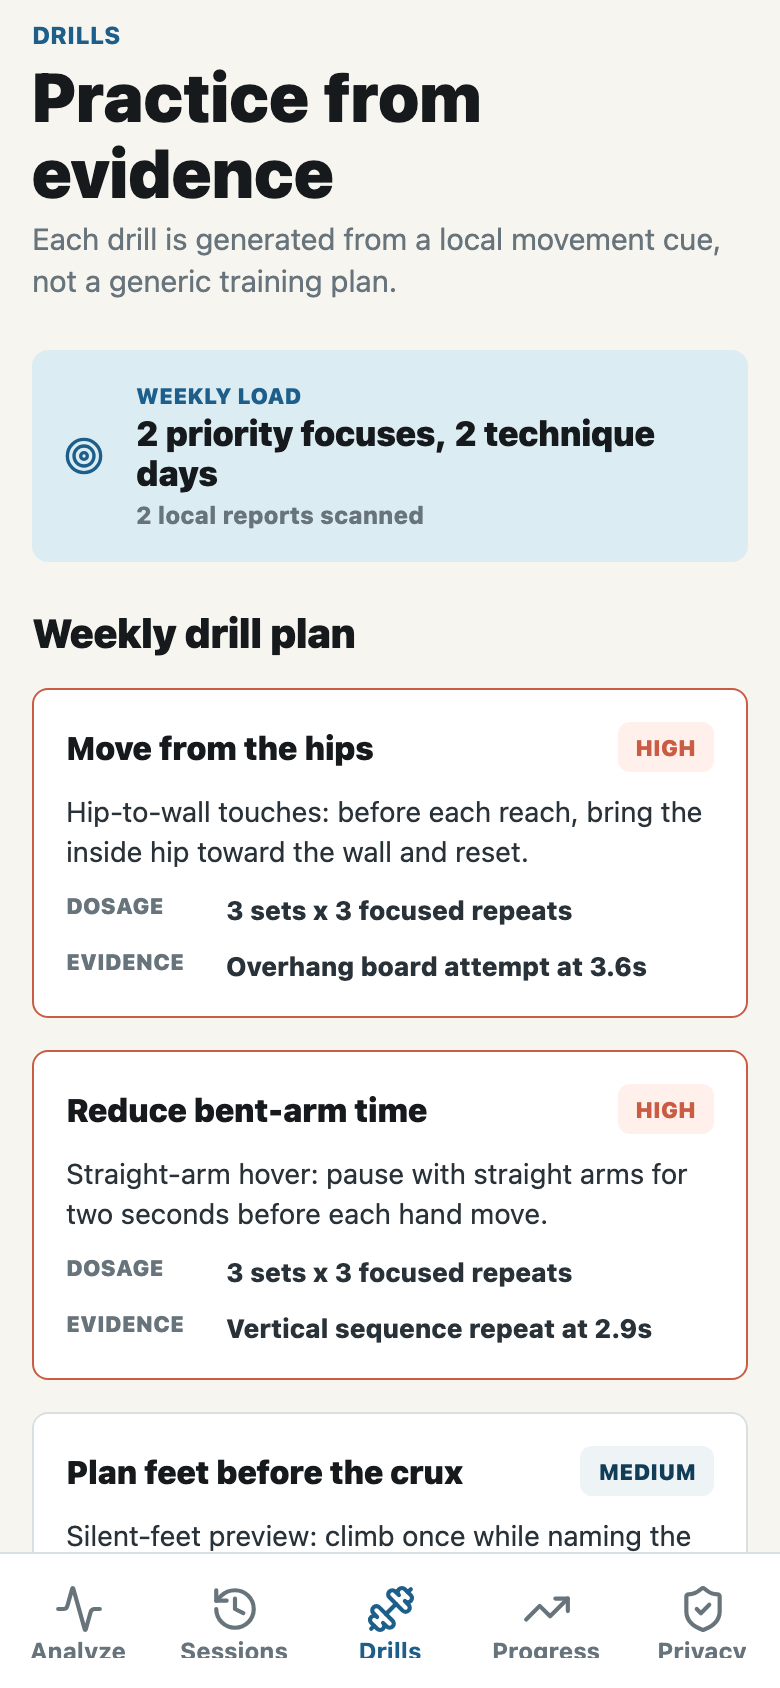
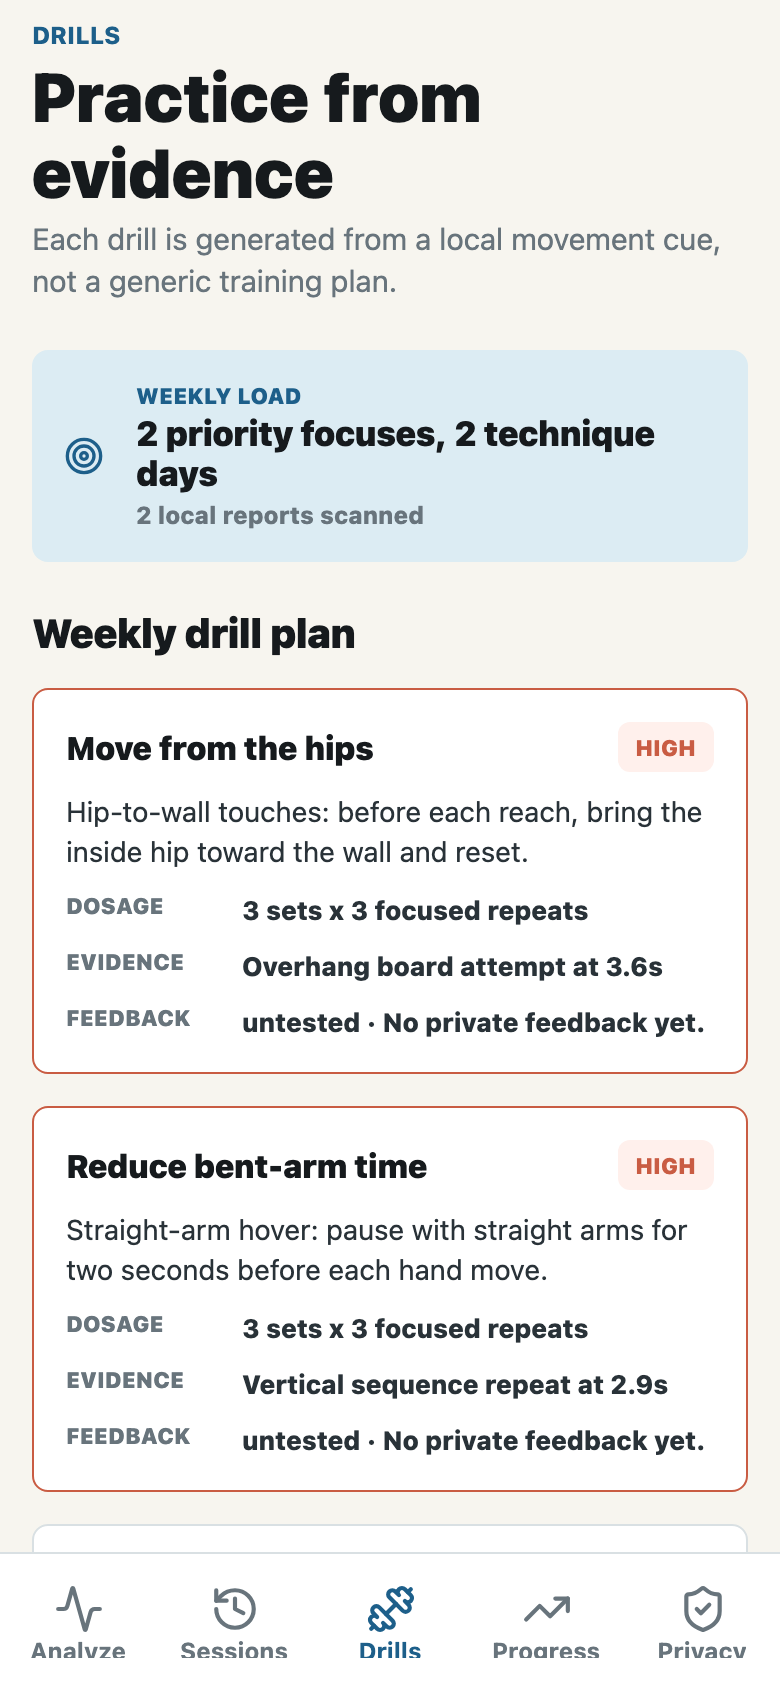
feat: adapt drills from cue feedback

diff --git a/src/movement/drillPlanner.ts b/src/movement/drillPlanner.ts
@@ -1,6 +1,8 @@
 import type { LocalAnalysisReport, MovementCue } from './contracts';
+import type { CueFeedback, ReportAnnotation } from './reportAnnotationRepository';
 
 export type DrillPlanPriority = 'high' | 'medium' | 'maintenance';
+export type DrillFeedbackStatus = 'reinforce' | 'variant' | 'untested';
 
 export type DrillPlanItem = {
   id: string;
@@ -10,6 +12,8 @@ export type DrillPlanItem = {
   drill: string;
   dosage: string;
   evidence: string;
+  feedbackEvidence: string;
+  feedbackStatus: DrillFeedbackStatus;
   priority: DrillPlanPriority;
   sourceReportId: string;
   sourceSessionTitle: string;
@@ -45,17 +49,69 @@ function sortReports(reports: LocalAnalysisReport[]) {
 
 function shouldReplace(existing: DrillPlanItem, candidate: DrillPlanItem) {
   const rankDelta = priorityRank[candidate.priority] - priorityRank[existing.priority];
-  return rankDelta > 0;
+  if (rankDelta !== 0) return rankDelta > 0;
+  return feedbackRank(candidate.feedbackStatus) > feedbackRank(existing.feedbackStatus);
 }
 
-function buildItem(report: LocalAnalysisReport, cue: MovementCue): DrillPlanItem {
+function feedbackRank(status: DrillFeedbackStatus) {
+  if (status === 'reinforce') return 3;
+  if (status === 'untested') return 2;
+  return 1;
+}
+
+function summarizeCueFeedback(feedback: CueFeedback[]): Pick<DrillPlanItem, 'feedbackEvidence' | 'feedbackStatus'> {
+  if (feedback.length === 0) {
+    return {
+      feedbackEvidence: 'No private feedback yet.',
+      feedbackStatus: 'untested',
+    };
+  }
+
+  const usefulCount = feedback.filter((item) => item.rating === 'useful').length;
+  const unclearCount = feedback.filter((item) => item.rating === 'unclear').length;
+  const notUsefulCount = feedback.filter((item) => item.rating === 'not-useful').length;
+  const reviewCount = unclearCount + notUsefulCount;
+  const total = feedback.length;
+
+  if (usefulCount > reviewCount) {
+    return {
+      feedbackEvidence: `${usefulCount}/${total} marked useful; repeat this cue before changing the drill.`,
+      feedbackStatus: 'reinforce',
+    };
+  }
+
+  return {
+    feedbackEvidence: `${reviewCount}/${total} need review; try a different constraint or ask a coach.`,
+    feedbackStatus: 'variant',
+  };
+}
+
+function buildFeedbackLookup(reports: LocalAnalysisReport[], annotations: ReportAnnotation[]) {
+  const reportIds = new Set(reports.map((report) => report.id));
+  const byCue = new Map<string, CueFeedback[]>();
+
+  for (const annotation of annotations) {
+    if (!reportIds.has(annotation.reportId)) continue;
+
+    for (const feedback of annotation.cueFeedback) {
+      byCue.set(feedback.cueId, [...(byCue.get(feedback.cueId) ?? []), feedback]);
+    }
+  }
+
+  return byCue;
+}
+
+function buildItem(report: LocalAnalysisReport, cue: MovementCue, feedback: CueFeedback[]): DrillPlanItem {
   const priority = cuePriority(cue);
+  const feedbackSummary = summarizeCueFeedback(feedback);
 
   return {
     cueId: cue.id,
     dosage: dosageForPriority(priority),
     drill: cue.drill,
     evidence: `${report.session.title} at ${(cue.timestampMs / 1000).toFixed(1)}s`,
+    feedbackEvidence: feedbackSummary.feedbackEvidence,
+    feedbackStatus: feedbackSummary.feedbackStatus,
     focus: cue.title,
     id: `${cue.id}-${report.id}`,
     priority,
@@ -65,13 +121,14 @@ function buildItem(report: LocalAnalysisReport, cue: MovementCue): DrillPlanItem
   };
 }
 
-export function buildDrillPlan(reports: LocalAnalysisReport[]): DrillPlan {
+export function buildDrillPlan(reports: LocalAnalysisReport[], annotations: ReportAnnotation[] = []): DrillPlan {
   const orderedReports = sortReports(reports);
+  const feedbackByCue = buildFeedbackLookup(orderedReports, annotations);
   const byCue = new Map<string, DrillPlanItem>();
 
   for (const report of orderedReports) {
     for (const cue of report.cues) {
-      const item = buildItem(report, cue);
+      const item = buildItem(report, cue, feedbackByCue.get(cue.id) ?? []);
       const existing = byCue.get(cue.id);
       if (!existing || shouldReplace(existing, item)) {
         byCue.set(cue.id, item);
@@ -92,10 +149,13 @@ export function buildDrillPlan(reports: LocalAnalysisReport[]): DrillPlan {
   }
 
   const highPriorityCount = items.filter((item) => item.priority === 'high').length;
-  const weeklyLoad =
+  const variantCount = items.filter((item) => item.feedbackStatus === 'variant').length;
+  const baseLoad =
     highPriorityCount > 0
       ? `${highPriorityCount} priority focus${highPriorityCount > 1 ? 'es' : ''}, 2 technique days`
       : 'Technique maintenance, 1 to 2 easy days';
+  const weeklyLoad =
+    variantCount > 0 ? `${baseLoad} · ${variantCount} cue${variantCount > 1 ? 's' : ''} need variants` : baseLoad;
 
   return {
     items,

diff --git a/tests/drillPlanner.test.ts b/tests/drillPlanner.test.ts
@@ -3,6 +3,7 @@ import { describe, expect, it } from 'vitest';
 import type { MovementCue } from '../src/movement/contracts';
 import { buildDrillPlan } from '../src/movement/drillPlanner';
 import { localMovementAnalyzer } from '../src/movement/localAnalyzer';
+import { createReportAnnotation, updateCueFeedback } from '../src/movement/reportAnnotationRepository';
 import { sampleAttempts } from '../src/movement/sampleSession';
 
 async function buildReports() {
@@ -55,6 +56,66 @@ describe('drill planner', () => {
     expect(plan.items).toHaveLength(1);
     expect(plan.items[0].priority).toBe('high');
     expect(plan.items[0].title).toBe('Higher priority duplicate');
+  });
+
+  it('adapts drill evidence from private useful cue feedback', async () => {
+    const reports = await buildReports();
+    const cueId = reports[0].cues[0].id;
+    const annotations = [
+      updateCueFeedback(createReportAnnotation(reports[0].id), {
+        cueId,
+        rating: 'useful',
+        updatedAt: '2026-06-19T11:00:00.000Z',
+      }),
+    ];
+
+    const plan = buildDrillPlan(reports, annotations);
+    const item = plan.items.find((drill) => drill.cueId === cueId);
+
+    expect(item?.feedbackStatus).toBe('reinforce');
+    expect(item?.feedbackEvidence).toContain('marked useful');
+  });
+
+  it('flags drill variants when private cue feedback needs review', async () => {
+    const reports = await buildReports();
+    const cueId = reports[0].cues[0].id;
+    const annotations = [
+      updateCueFeedback(createReportAnnotation(reports[0].id), {
+        cueId,
+        rating: 'unclear',
+        updatedAt: '2026-06-19T11:00:00.000Z',
+      }),
+      updateCueFeedback(createReportAnnotation(reports[1].id), {
+        cueId,
+        rating: 'not-useful',
+        updatedAt: '2026-06-19T12:00:00.000Z',
+      }),
+    ];
+
+    const plan = buildDrillPlan(reports, annotations);
+    const item = plan.items.find((drill) => drill.cueId === cueId);
+
+    expect(item?.feedbackStatus).toBe('variant');
+    expect(item?.feedbackEvidence).toContain('need review');
+    expect(plan.weeklyLoad).toContain('need variants');
+  });
+
+  it('ignores orphan feedback when adapting drill plans', async () => {
+    const reports = await buildReports();
+    const cueId = reports[0].cues[0].id;
+    const annotations = [
+      updateCueFeedback(createReportAnnotation('deleted-report'), {
+        cueId,
+        rating: 'not-useful',
+        updatedAt: '2026-06-19T11:00:00.000Z',
+      }),
+    ];
+
+    const plan = buildDrillPlan(reports, annotations);
+    const item = plan.items.find((drill) => drill.cueId === cueId);
+
+    expect(item?.feedbackStatus).toBe('untested');
+    expect(item?.feedbackEvidence).toContain('No private feedback');
   });
 
   it('returns an empty plan when no report has coach cues', async () => {

diff --git a/src/features/drills/DrillsScreen.tsx b/src/features/drills/DrillsScreen.tsx
@@ -10,6 +10,7 @@ import { Section } from '@/components/Section';
 import { appConfig } from '@/core/config';
 import { theme } from '@/core/theme';
 import { buildDrillPlan, type DrillPlan } from '@/movement/drillPlanner';
+import { reportAnnotationRepository } from '@/movement/reportAnnotationRepository';
 import { analyzeDemoAttempt, listDemoAttempts, listReports } from '@/movement/repository';
 
 function emptyPlan(): DrillPlan {
@@ -31,7 +32,8 @@ export function DrillsScreen() {
       reports = await listReports();
     }
 
-    setPlan(buildDrillPlan(reports));
+    const nextAnnotations = await reportAnnotationRepository.listAnnotations();
+    setPlan(buildDrillPlan(reports, nextAnnotations));
   }
 
   useFocusEffect(
@@ -76,6 +78,12 @@ export function DrillsScreen() {
                 <Text style={styles.detailLabel}>Evidence</Text>
                 <Text style={styles.detailValue}>{item.evidence}</Text>
               </View>
+              <View style={styles.detailRow}>
+                <Text style={styles.detailLabel}>Feedback</Text>
+                <Text style={styles.detailValue}>
+                  {item.feedbackStatus} · {item.feedbackEvidence}
+                </Text>
+              </View>
             </View>
           ))
         ) : (
@@ -90,7 +98,7 @@ export function DrillsScreen() {
         <View style={styles.preview}>
           <Text style={styles.previewTitle}>Next unlock</Text>
           <Text style={styles.previewText}>
-            Save plan variants by grade, wall angle, and athlete goal while keeping report data local by default.
+            Save plan variants by grade, wall angle, athlete goal, and private cue feedback while keeping report data local by default.
           </Text>
         </View>
       </Section>
@@ -114,7 +122,7 @@ const styles = StyleSheet.create({
     fontSize: 11,
     fontWeight: '900',
     textTransform: 'uppercase',
-    width: 70,
+    width: 78,
   },
   detailRow: {
     alignItems: 'flex-start',

diff --git a/scripts/smoke_web_video.py b/scripts/smoke_web_video.py
@@ -42,6 +42,8 @@ def main() -> None:
         page.wait_for_load_state("networkidle")
         expect(page.get_by_text("Practice from evidence")).to_be_visible()
         expect(page.get_by_text("Weekly drill plan")).to_be_visible()
+        expect(page.get_by_text("Feedback").first).to_be_visible()
+        expect(page.get_by_text("untested").first).to_be_visible()
         expect(page.get_by_text("Coach pack preview")).to_be_visible()
         expect(page.get_by_text("Plan access").first).to_be_visible()
         expect(page.get_by_text("Unlocks with Pro")).to_be_visible()
@@ -105,6 +107,10 @@ def main() -> None:
         expect(page.get_by_text("Useful rate")).to_be_visible()
         expect(page.get_by_text("Next repeat", exact=True)).to_be_visible()
         expect(page.get_by_text("confidence 5/5")).to_be_visible()
+        page.get_by_role("tab", name="Drills").click()
+        page.wait_for_load_state("networkidle")
+        expect(page.get_by_text("reinforce").first).to_be_visible()
+        expect(page.get_by_text("marked useful").first).to_be_visible()
         page.get_by_role("tab", name="Sessions").click()
         page.wait_for_load_state("networkidle")
         expect(page.get_by_text("Coach packet", exact=True).nth(0)).to_be_visible()

diff --git a/docs/sdlc/release-readiness-report.md b/docs/sdlc/release-readiness-report.md
@@ -26,7 +26,7 @@ platforms are validated on physical climbing videos and devices.
 - Analyze converts video signal quality into ready, review, or retake guidance before coaching cues.
 - Progress shows local history summary, best signal, next focus metric, next-session planning, technique readiness,
   personal benchmarks, recurring cue patterns, cue usefulness insights, attempt comparison, and trend deltas.
-- Drills shows a weekly drill plan with priority, dosage, report evidence, and coach pack preview.
+- Drills shows a weekly drill plan with priority, dosage, report evidence, private cue feedback adaptation, and coach pack preview.
 - Web builds use TensorFlow.js MoveNet when local browser video decoding is available.
 - Android custom native builds compile the `native-platform-pose` provider backed by ML Kit and local video metadata reads.
 - iOS native source includes Apple Vision pose extraction, local video metadata reads, and local Photos asset resolution
@@ -64,7 +64,7 @@ platforms are validated on physical climbing videos and devices.
 ## Automated Gates
 
 - `npm run typecheck`: passed.
-- `npm test`: passed, 35 test files and 128 tests.
+- `npm test`: passed, 35 test files and 131 tests.
 - `npm ci`: passed from `package-lock.json`.
 - `npm run export:web`: passed, generated `dist`.
 - `npm run security:audit`: passed at `--audit-level=high`.
@@ -97,7 +97,7 @@ platforms are validated on physical climbing videos and devices.
 - `MOVEBETA_SMOKE_URL=http://127.0.0.1:8083 npm run store:screenshots`: passed and generated five 780x1688 PNG screenshots.
 - Playwright exported-bundle smoke: passed with `scripts/smoke_web_video.py`, including the Analysis quality panel on
   mobile and desktop viewports, session metadata inputs, capture setup calibration, video intake readiness,
-  capture-readiness guidance, the Drills weekly plan, the Progress next-session plan, the Progress technique readiness
+  capture-readiness guidance, the Drills weekly plan, feedback-adapted drills, the Progress next-session plan, the Progress technique readiness
   panel, the Progress personal benchmarks panel, the Progress cue patterns panel, the Progress cue usefulness panel, the Progress attempt
   comparison, the Progress history preview, Plan access cards, Progress history filters, the Sessions review detail, the
   Sessions cue feedback controls, the Sessions private training log, the Progress project queue, the Sessions coach packet consent gate and export, the

diff --git a/docs/test-plan.md b/docs/test-plan.md
@@ -27,7 +27,8 @@
 - Vitest capture-calibration tests for ideal setup, review-grade setup, and blockers caused by privacy or poor pose input.
 - Vitest progress insights tests for report ordering, trend deltas, and empty-history handling.
 - Vitest attempt comparison tests for latest-vs-baseline ordering, metric deltas, cue status, and insufficient history.
-- Vitest drill planner tests for cue deduplication, priority ordering, dosage, and empty cue reports.
+- Vitest drill planner tests for cue deduplication, feedback-adapted reinforcement or variants, priority ordering,
+  dosage, and empty cue reports.
 - Vitest coach review packet tests for consent metadata, review rubric, and raw video/landmark exclusion.
 - Vitest cue validation tests for pass, needs-review, and insufficient-data scoring.
 - Vitest cue validation dataset tests for production thresholds, wall-angle coverage, reviewer coverage, raw-artifact
@@ -73,7 +74,7 @@
 - Privacy airplane-mode readiness check confirms local workflow readiness after reports exist.
 - Cue validation rubric can score coach reviews once consented clip packets are available.
 - Cue validation dataset gate can reject incomplete studies before production movement-quality claims.
-- Drills tab shows weekly drill plan, priority dosage, evidence, and coach pack preview.
+- Drills tab shows weekly drill plan, priority dosage, report evidence, private cue feedback adaptation, and coach pack preview.
 - Progress tab shows movement score bars.
 - Progress tab shows local history summary, current trend, and Pro history preview.
 - Progress tab shows attempt comparison after at least two local reports.

diff --git a/docs/requirements.md b/docs/requirements.md
@@ -22,6 +22,8 @@
 - Validate consented cue-review datasets with configurable thresholds for clip count, wall-angle coverage, reviewer
   coverage, review mode, score quality, and raw-artifact exclusion.
 - Generate a weekly drill plan from local report cues with priority, dosage, and evidence.
+- Adapt weekly drill plans from private cue feedback by reinforcing useful cues and flagging unclear or not-useful cues
+  for variants.
 - Show a key-frame pose overlay and timeline events.
 - Show analysis quality, frame coverage, landmark coverage, visibility, and warnings before coaching cues.
 - Convert analysis quality into capture-readiness guidance so users know when to trust cues or retake the clip.
@@ -78,6 +80,8 @@
 - Cue pattern summaries must return an empty state without local cues and must keep cleared counts independent of UI
   display limits.
 - Cue usefulness summaries must ignore orphan training logs and return an empty state before feedback exists.
+- Adaptive drill plans must ignore orphan training logs and keep producing untested drill feedback when no cue feedback
+  exists.
 - Video analysis performance budgets must be testable without a native runtime and visible in local reports.
 - Video metadata extraction must degrade to picker/timer values when native or browser metadata is unavailable.
 - Pose providers should skip incomplete per-frame detections and fail only when too few complete frames remain.

diff --git a/CHANGELOG.md b/CHANGELOG.md
@@ -57,3 +57,4 @@
 - Next-session planning with target, duration, intensity cap, ordered phases, and local evidence.
 - Recurring cue pattern tracking for persistent, emerging, and cleared coach cues.
 - Cue usefulness insights from private feedback with useful rate, top cue, and review cue signals.
+- Feedback-adapted drill plans that reinforce useful cues and flag unclear or not-useful cues for variants.

diff --git a/README.md b/README.md
@@ -62,6 +62,7 @@ with their private training log plus coach-consent record from the Sessions tab.
 - Technique readiness scoring that turns local trends and private training logs into next-session guidance.
 - Latest attempt comparison against the previous local report with cue status and next-repeat guidance.
 - Evidence-based weekly drill plans generated from local report cues.
+- Feedback-adapted drill plans that reinforce useful cues and flag unclear or not-useful cues for variants.
 - Replaceable pose-estimator boundary for native platform, MediaPipe, Core ML, or TensorFlow Lite builds.
 - Vitest for domain tests.
 

diff --git a/docs/sdlc/backlog.md b/docs/sdlc/backlog.md
@@ -7,6 +7,7 @@
 | MB-003 | Real clip validation | As a product team, we can measure cue usefulness on consented clips | Must | Dataset contract, template, CLI gate, scoring harness, and rubric ready; needs real consented clip set |
 | MB-004 | Repeat comparison | As a climber, I can compare two attempts of the same move | Done | Latest-vs-baseline metrics, cue status, and recommendation in Progress |
 | MB-005 | Pro history | As a paying user, I can track long-term technique trends | Done | Active plan entitlements gate recent vs unlimited history; optional sync future |
+| MB-005A | Adaptive drills | As a climber, my drill plan reacts to which cues actually helped | Done | Private cue feedback marks drills as reinforce, variant, or untested without cloud sync |
 | MB-006 | Coach review | As a coach, I can review athlete reports with consent | Done | Local coach review packet with consent metadata; multi-user workspace future |
 | MB-007 | Dependency hygiene | As a maintainer, I receive dependency update PRs | Done | Dependabot configured for npm and GitHub Actions; `npm ci` and CI gate pass |
 | MB-008 | Native release readiness | As a maintainer, I can create internal test builds | Should | EAS profiles, app identifiers, and standard validator are configured; strict gate needs real Expo, Apple, and Google credentials |

diff --git a/docs/sdlc/traceability-matrix.md b/docs/sdlc/traceability-matrix.md
@@ -48,3 +48,4 @@
 | R44 recurring cue patterns | `docs/requirements.md` | `tests/cuePatterns.test.ts`, browser smoke | Progress tab Cue patterns panel | Covered |
 | R45 private cue usefulness feedback | `docs/requirements.md` | `tests/reportAnnotationRepository.test.ts`, `tests/dataPortability.test.ts`, browser smoke | Sessions tab Cue feedback controls | Covered |
 | R46 cue usefulness insights | `docs/requirements.md` | `tests/cueFeedbackInsights.test.ts`, browser smoke | Progress tab Cue usefulness panel | Covered |
+| R47 feedback-adapted drill plans | `docs/requirements.md` | `tests/drillPlanner.test.ts`, browser smoke | Drills tab Feedback row | Covered |

diff --git a/docs/task-plan.md b/docs/task-plan.md
@@ -58,3 +58,4 @@
 | T54 | Add recurring cue pattern tracking for persistent, emerging, and cleared technique issues | Done |
 | T55 | Add private per-cue usefulness feedback inside local training logs | Done |
 | T56 | Add cue usefulness insights from private cue feedback | Done |
+| T57 | Adapt drill plans from private cue feedback | Done |